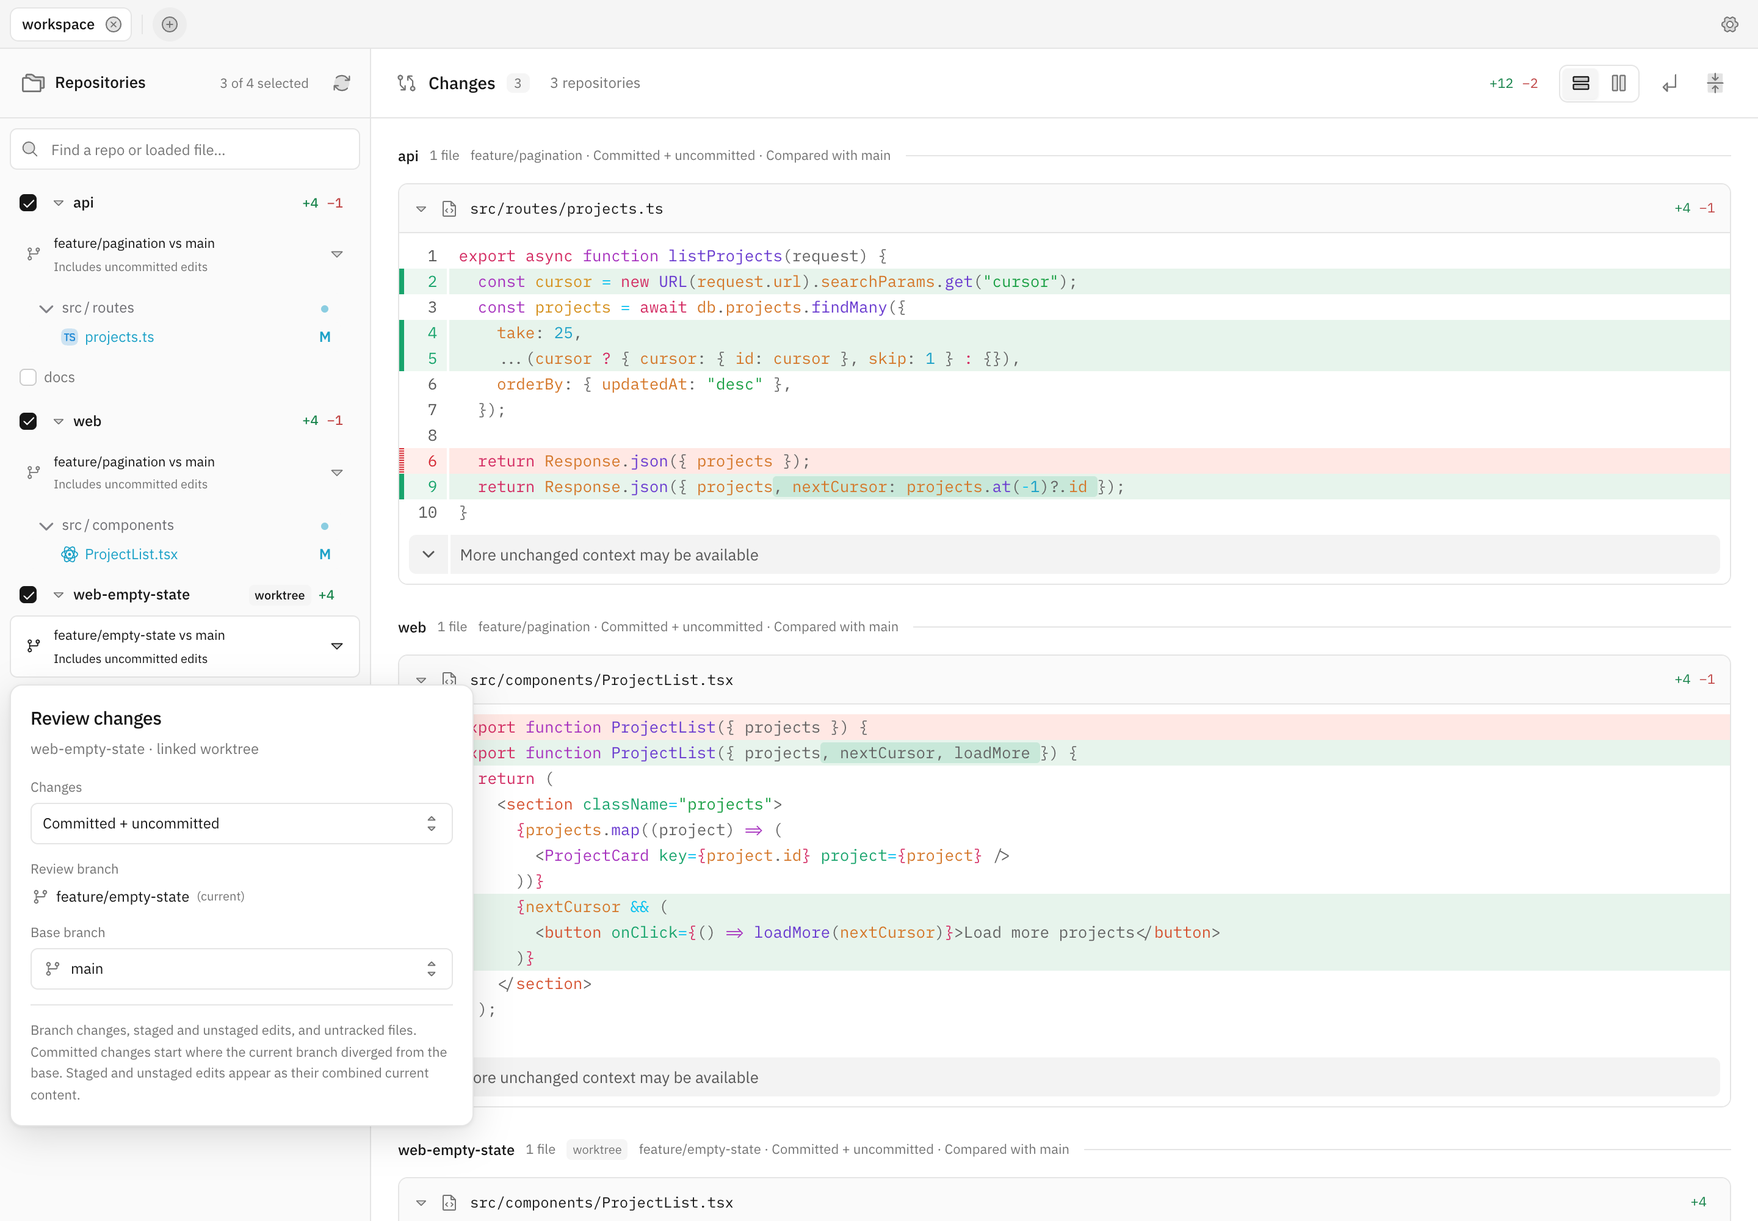
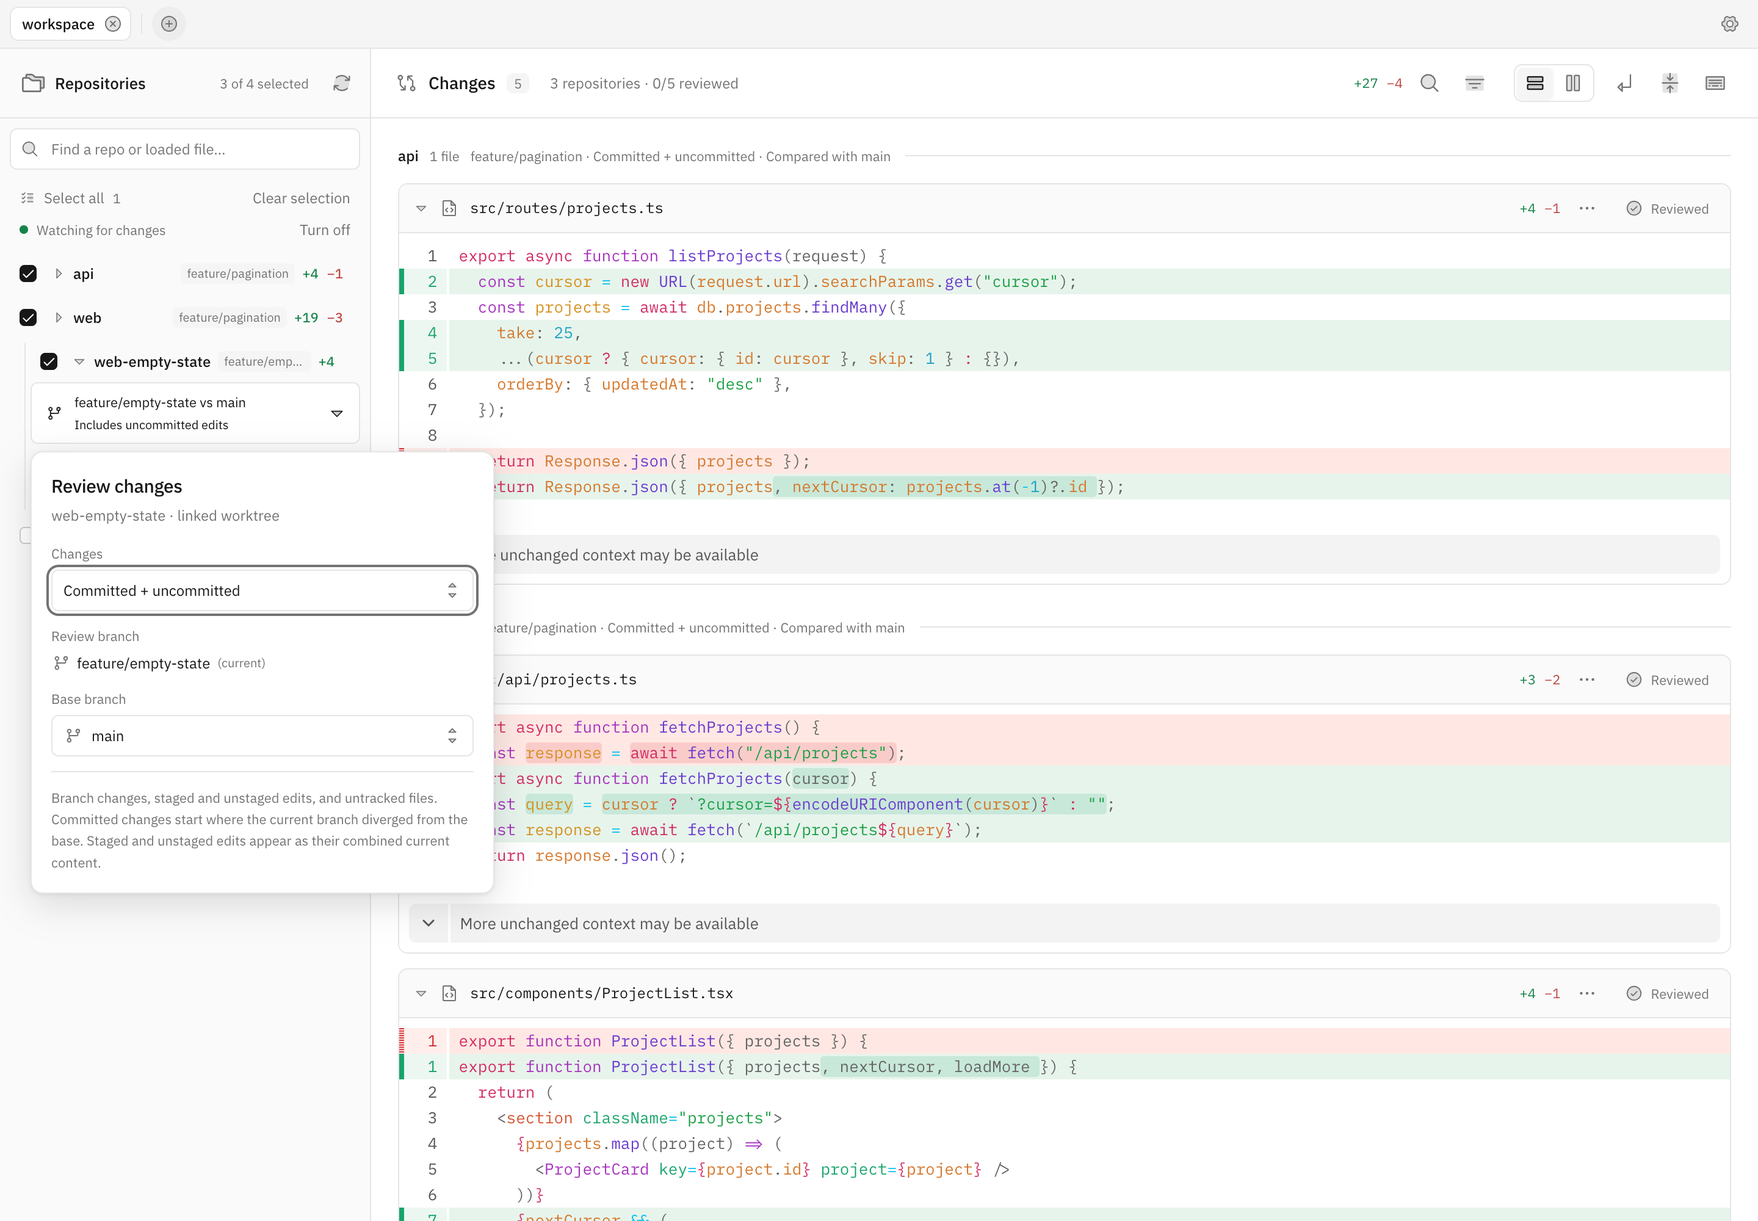
docs: refresh the screenshots and document the new review tools

diff --git a/docs/usage.md b/docs/usage.md
@@ -4,15 +4,19 @@
 
 ## Tabs
 
-Work is organised into tabs. The `+` button opens the operating system's own folder chooser (`osascript` on macOS, `zenity` or `kdialog` on Linux, a PowerShell folder dialog on Windows) and always opens a new tab, so the same directory can be open several times with different repositories and comparisons in each. Right-click a tab to duplicate it, which copies its settings. Running `polydiff <directory>` reuses a tab already open on that directory instead of adding another.
+Work is organised into tabs. The `+` button opens the operating system's own folder chooser (`osascript` on macOS, `zenity` or `kdialog` on Linux, a PowerShell folder dialog on Windows) and always opens a new tab, so the same directory can be open several times with different repositories and comparisons in each. Right-click a tab for duplicate, rename, and move actions. Running `polydiff <directory>` reuses a tab already open on that directory instead of adding another.
+
+A tab is named after its folder until you give it one of your own; double-click the tab or use Rename tab, and Reset name puts the folder name back. The folder path is always in the tab's tooltip. Drag a tab to reorder it, or use Move left and Move right in its menu; the order is saved.
 
 Closing a tab keeps it in a list of the ten most recently closed. The restore button at the right of the tab bar brings the last one back with its settings intact.
 
 ## Settings and stored state
 
-Settings apply everywhere and cover appearance (theme, unified or split, line wrapping, sidebar density and width), diffs (within-line highlighting, context lines per expansion), and discovery (search depth, directory budget, and folder names to skip). Discovery settings take effect on the next rescan. Each tab separately remembers its directory and any repository whose base branch, comparison branch, or tick you changed.
+Settings apply everywhere and cover appearance (theme, unified or split, line wrapping, sidebar density and width), refreshing (whether selected repositories reload on their own), diffs (within-line highlighting, context lines per expansion), opening files (which editor the file menu hands a path to), and discovery (search depth, directory budget, and folder names to skip). Discovery settings take effect on the next rescan. Each tab separately remembers its directory, its name, and any repository whose base branch, comparison branch, tick, or reviewed files you changed.
 
 New tabs start with no repositories selected. Every discovered repository appears in the sidebar, and ticking one loads its changes and opens its file list. Unticking it cancels its pending diff request and removes it from the review. Saved selections are restored when you reopen a tab; newly discovered repositories remain unticked. Comparison branches are kept for unticked repositories. Search matches repository names and loaded changed files.
+
+Repositories in the review are listed first, then the rest, each group in alphabetical order. A linked worktree sorts under the repository it belongs to and is indented beneath it; each row shows the branch that is checked out there. The review pane follows the same order. Select matching ticks every repository the search is showing, and Clear selection unticks everything.
 
 Skip these folders shows the full default list. Remove a name to include that folder in discovery, or add a folder name to skip it. Reset preferences restores all app defaults, including this list and the sidebar width, while keeping open tabs, recently closed tabs, and repository comparisons.
 
@@ -20,13 +24,13 @@ Drag the sidebar's right edge to resize it. You can also focus the divider and u
 
 Repositories in the sidebar and files in the review pane both open folded. Clicking a file in the sidebar expands that file and scrolls to it, and the toolbar button expands or folds every file at once.
 
-Search text, which files are expanded, and scroll position are deliberately not stored, because restoring them is more surprising than retyping them.
+Search text, which files are expanded, and scroll position are deliberately not stored, because restoring them is more surprising than retyping them. Which files you have reviewed is stored, because losing that is worse than restoring it.
 
 State lives in `~/.polydiff/db.json`, written atomically and debounced; set `POLYDIFF_HOME` to store it elsewhere. Only values that differ from the defaults are written, so the file stays readable. A file that cannot be parsed is moved aside to `db.json.corrupt` and a fresh one is started. Files written by an earlier version are migrated when loaded and saved in the current format on the next write.
 
 ```json
 {
-  "version": 5,
+  "version": 6,
   "revision": 48,
   "settings": { "layout": "split" },
   "activeTab": "tmu0as73o",
@@ -34,10 +38,12 @@ State lives in `~/.polydiff/db.json`, written atomically and debounced; set `POL
     {
       "id": "tmu0as73o",
       "root": "/Users/you/Developer/netlify",
+      "name": "API migration",
       "repos": {
         "/Users/you/Developer/netlify/build": {
           "target": "release",
-          "selected": true
+          "selected": true,
+          "reviewed": { "src/index.ts": "1f4pq2" }
         }
       }
     }
@@ -46,9 +52,55 @@ State lives in `~/.polydiff/db.json`, written atomically and debounced; set `POL
 }
 ```
 
+A reviewed file is stored against a short value standing for the diff you read, so the same file counts as reviewed only until it changes again. Up to 2000 files are kept per repository, and paths that leave a comparison are dropped the next time it loads.
+
 The browser sends one command per change rather than the whole document, and the server applies it to whatever is on disk. Repository settings merge, so a repository missing from the latest scan keeps what you gave it, including its selection, and two windows editing different tabs do not overwrite each other.
 
+Version 6 adds tab names, tab order, and reviewed files. Nothing is discarded when a version 5 file is read: tabs keep the order they were stored in and start with no name.
+
 Version 5 removes automatic selection rules. Migration preserves explicit selections and comparison branches in open and recently closed tabs; repositories previously included only by Changed or All now start unticked. Before version 4, ticks only applied in custom mode (or version 1), so inactive ticks from other modes are discarded.
+
+## Refreshing
+
+While a tab is in front of you, its selected repositories are checked every few seconds and reloaded when something moves. The check asks the server for one short value per repository that stands for what the comparison would show: the commits at each end, and for comparisons that read local files, the output of `git status` together with the timestamp and size of every file it names. Only a repository whose value changed is reloaded, so nothing happens while you read.
+
+The status line under the sidebar's search box says what the watcher is doing, and turns it off and on. A background tab or a hidden window pauses it, and so does a scan. A check that fails is not reported; the next one retries. Files you have expanded and the reviewed marks survive a reload, and the diff viewer holds your scroll position against the change in height.
+
+Files carry a Reviewed toggle. Marking one folds it and counts it in the toolbar; the mark is tied to the diff you read, so the file comes back with a "Changed since you reviewed it" badge once it changes. The filter menu hides reviewed files, marks everything on screen as reviewed, and clears the marks again.
+
+## Filtering and searching
+
+The sidebar's search box matches repository names and the paths of loaded files, and what it leaves applies to the review pane as well. The filter menu in the toolbar narrows that further by change type, hides generated files (lockfiles, snapshots, minified output, and paths under `generated/`), and hides files you have reviewed. Each repository's heading says how many of its files a filter is hiding.
+
+![The filter menu, with change types, generated files, reviewed files, and the two review actions](images/filters.png)
+
+Search inside the diffs with the toolbar's magnifier or `f`. It looks through the loaded diffs of every repository in the review, counts the matches, and moves between them with Enter, Shift+Enter, or the arrows next to the count. Changed lines only leaves context lines out. Jumping to a match opens its file and scrolls to the line.
+
+![Searching the loaded diffs for "cursor", showing the match count and the line a jump landed on](images/search.png)
+
+## Keyboard shortcuts
+
+Press `?` for this list in the app. Shortcuts are ignored while you are typing in a field.
+
+![The keyboard shortcut list](images/shortcuts.png)
+
+| Keys                     | Action                          |
+| ------------------------ | ------------------------------- |
+| `j` / `k`                | Next or previous file           |
+| `n` / `p`                | Next or previous hunk           |
+| `o`                      | Expand or fold the current file |
+| `e`                      | Expand or fold every file       |
+| `r`                      | Mark the current file reviewed  |
+| `f`                      | Search inside the diffs         |
+| `/`                      | Filter repositories and files   |
+| `Shift` + `R`            | Rescan and reload now           |
+| `[` / `]`                | Previous or next tab            |
+| `Alt` + `Shift` + arrows | Move the current tab            |
+| `?`                      | Show the shortcut list          |
+
+## Copying and opening files
+
+Each file's menu copies its path relative to its repository or its full path, and opens it in your editor at the first changed line. The editor is chosen in Settings, and the app hands the path to that editor's own URL scheme (`vscode://`, `cursor://`, `windsurf://`, `zed://`, `jetbrains://`, or `subl://`), so your browser asks before handing it over and the server never runs anything. Choose No editor to drop that menu item.
 
 ## Comparisons
 
@@ -57,6 +109,12 @@ Select and expand a repository to show its comparison button above the file list
 - **Committed + uncommitted** (default) includes committed changes since the current branch diverged from the base, staged and unstaged edits as their combined current content, and untracked files. The review branch is the current checkout; you can choose the base branch.
 - **Committed only** shows committed changes since the review branch diverged from the base. You can choose any local or remote review branch and base branch. Local edits are excluded.
 - **Uncommitted only** compares local files with the latest commit of the current checkout. It includes staged and unstaged edits as their combined current content, and untracked files. Both branch pickers are hidden; the saved base is restored when you switch back to a branch comparison.
+- **Staged only** shows what is in the index, compared with the latest commit. Untracked files are not in it.
+- **Unstaged only** compares the files on disk with the index, so it shows edits you have not staged, plus untracked files.
+
+![The five comparison scopes, from committed and uncommitted together down to staged and unstaged apart](images/scopes.png)
+
+The review branch picker accepts a tag or a commit as well as a branch: type a revision into its search box and it is offered as an option. Whatever you choose is passed to Git as written, so it has to be a revision the repository already has.
 
 Switching from committed review of another branch to a scope containing uncommitted edits switches the review to the current checkout. Switching back to committed review starts with that checkout; choose another review branch if needed. Existing saved comparisons retain their meaning. No checkout, fetch, staging, or file edits are performed.
 
@@ -66,7 +124,7 @@ Discovery handles `.git` directories and worktree `.git` files, searches eight d
 
 Discovery stops at each repository boundary and never walks a repository's contents, so it only traverses the space between repositories. No `.gitignore` applies there, and none is read; dependency, virtualenv, and cache directory names are skipped by default, and Settings can add or remove names. Build output names such as `build`, `dist`, and `target` are deliberately not on the default list, because they are also ordinary repository names. Reaching either search limit reports one summary warning rather than one per directory, naming the setting that raises it.
 
-Binary files and changes without text hunks show a notice. Untracked files larger than 1 MB and untracked symlinks are skipped with a warning; Git output is limited to 16 MB per command. Repositories without commits currently report a comparison error.
+Binary files carry a Binary badge and a note in place of their contents, and a file whose mode changed shows the old and new modes. Untracked files larger than 1 MB and untracked symlinks are skipped with a warning that names the file; an untracked directory that is itself a repository is skipped quietly, because it has its own row. Git output is limited to 16 MB per command. A repository without commits compares against Git's empty tree, so everything in it reads as new, with a notice saying so.
 
 The server binds to loopback on an available port and requires a per-session token for API requests. `POST` is accepted only for state commands. The browser uses the local server to read directories; nothing is uploaded.
 

diff --git a/README.md b/README.md
@@ -12,16 +12,18 @@ A feature can touch your API, frontend, and a shared library. Other work continu
 npx polydiff ~/Developer
 ```
 
-![PolyDiff showing API and frontend changes together, with a separate feature worktree in the sidebar](https://raw.githubusercontent.com/VaibhavAcharya/polydiff/main/docs/images/workspace.png)
+![polydiff showing the API and frontend pagination changes together, with the empty-state worktree listed under the repository it belongs to](https://raw.githubusercontent.com/VaibhavAcharya/polydiff/main/docs/images/workspace.png)
 
 The screenshots use sample repositories: an API and frontend adding pagination, plus a worktree working on an empty state.
 
 ## Review the work across your workspace
 
 - Follow a feature across repositories. Read the API change and its frontend changes in the same view.
-- Check parallel worktrees. Review another branch's work while leaving your current checkout alone, including work produced by coding agents.
+- Check parallel worktrees. Review another branch's work while leaving your current checkout alone, including work produced by coding agents. Worktrees sit under the repository they belong to in the sidebar.
 - See the whole change before opening a PR. The working-tree comparison includes committed feature work, staged and unstaged edits, and untracked files.
-- Keep separate review contexts in tabs. Each tab remembers its folder, which repositories are in the review, and their comparison branches. Duplicate a tab to review the same workspace another way.
+- Keep reading while the work moves. Selected repositories reload when their files or refs change, so a review stays current while an agent or a colleague is still writing.
+- Tick off what you have read. Each file has a reviewed mark that clears itself when the file changes again, and reviewed files can be hidden.
+- Keep separate review contexts in tabs. Each tab remembers its folder, which repositories are in the review, their comparison branches, and what you have reviewed. Name a tab, drag it into place, or duplicate it to review the same workspace another way.
 
 ## Start reviewing
 
@@ -31,11 +33,17 @@ You need Node.js 20.19 or newer and Git on your PATH. The command starts a local
 npx polydiff ~/Developer/my-projects
 ```
 
-The sidebar lists every repository it found. New tabs start with none selected; tick the repositories you want to review to load their changes. Each repository keeps its own base and comparison branch, even when unticked. Use the sidebar to jump between files, and the refresh button to rescan and reload selected repositories.
+The sidebar lists every repository it found, with the repositories in the review at the top. New tabs start with none selected; tick the repositories you want to review to load their changes, or use Select matching after typing in the search box. Each repository keeps its own base and comparison branch, even when unticked. Use the sidebar to jump between files, and the refresh button to rescan and reload selected repositories.
 
-Click a repository's comparison summary to choose **Committed + uncommitted**, **Committed only**, or **Uncommitted only**. Branch comparisons let you choose a base; uncommitted review shows local edits since the latest commit. Each repository keeps its own comparison.
+Selected repositories are watched while the tab is in front of you, and reload on their own when a file or a Git ref changes. The sidebar says what the watcher is doing and can turn it off; a background tab or a hidden window pauses it.
 
-![Repository selection and independent branch comparisons, including a linked worktree](https://raw.githubusercontent.com/VaibhavAcharya/polydiff/main/docs/images/comparisons.png)
+Mark each file reviewed as you go. The mark is tied to the diff you read, so a file that changes again comes back with a badge saying so, and the toolbar keeps a count. Hide what you have reviewed to see only what is left.
+
+![A file marked reviewed, and one that changed after it was reviewed, with the review count in the toolbar](https://raw.githubusercontent.com/VaibhavAcharya/polydiff/main/docs/images/reviewing.png)
+
+Click a repository's comparison summary to choose **Committed + uncommitted**, **Committed only**, **Uncommitted only**, **Staged only**, or **Unstaged only**. Branch comparisons let you choose a base, including a tag or a commit you type in. The local scopes show what has not been committed, split by the index when you want to read staged and unstaged work apart. Each repository keeps its own comparison.
+
+![The comparison picker open on a linked worktree, choosing what it reviews and which branch it compares with](https://raw.githubusercontent.com/VaibhavAcharya/polydiff/main/docs/images/comparisons.png)
 
 The default comparison shows changes since the common ancestor of the base branch and HEAD, including your current working-tree edits. Select a branch or HEAD to review committed changes only. Remote branches use refs already present locally.
 
@@ -45,7 +53,11 @@ Run `npx polydiff` without a folder to restore your previous tabs. On the first 
 
 Switch between unified and split views, wrap long lines, expand surrounding code, and choose a light, dark, or system theme. Resize the sidebar and scroll long paths horizontally. Repositories and diffs start folded, so a large review opens as a list you can work through rather than a wall of code. Expand all opens every file at once.
 
-![Split diffs in the dark theme, showing changes across the API and frontend repositories](https://raw.githubusercontent.com/VaibhavAcharya/polydiff/main/docs/images/split-dark.png)
+Filter the review down to what you want to read: search by path, keep one kind of change, hide lockfiles and other generated output, or hide what you have already reviewed. The filter applies to the sidebar and the review pane together. Search inside the loaded diffs to jump between matches, with an option to look at changed lines only.
+
+Press `?` for the keyboard shortcuts. `j` and `k` move between files, `n` and `p` between hunks, `r` marks a file reviewed, `f` searches the diffs, and `[` and `]` switch tabs. A file's menu copies its path or opens it in your editor at the first changed line.
+
+![Split diffs in the dark theme, showing the API and frontend changes side by side](https://raw.githubusercontent.com/VaibhavAcharya/polydiff/main/docs/images/split-dark.png)
 
 ## Local and read-only
 
@@ -53,7 +65,7 @@ Your code stays on your machine. The app connects to a local server bound to loo
 
 Discovery finds repositories and worktrees beneath the folder you open, including `.worktrees` inside repositories. It skips dependency and cache folders by default. Edit the skipped-folder list, search depth, and directory limits in Settings. Reset preferences restores the defaults while keeping your tabs and comparisons.
 
-Binary changes show a notice. Untracked files over 1 MB and untracked symlinks are skipped, and repositories need at least one commit. See the [usage reference](https://github.com/VaibhavAcharya/polydiff/blob/main/docs/usage.md) for comparison details, discovery limits, and stored settings.
+Binary files, file mode changes, and repositories without commits are all shown with a note explaining what happened. Untracked files over 1 MB and untracked symlinks are skipped with a warning. Opening a file in your editor uses that editor's own URL scheme, so nothing is run on the server. See the [usage reference](https://github.com/VaibhavAcharya/polydiff/blob/main/docs/usage.md) for comparison details, discovery limits, and stored settings.
 
 ## Contributing
 
